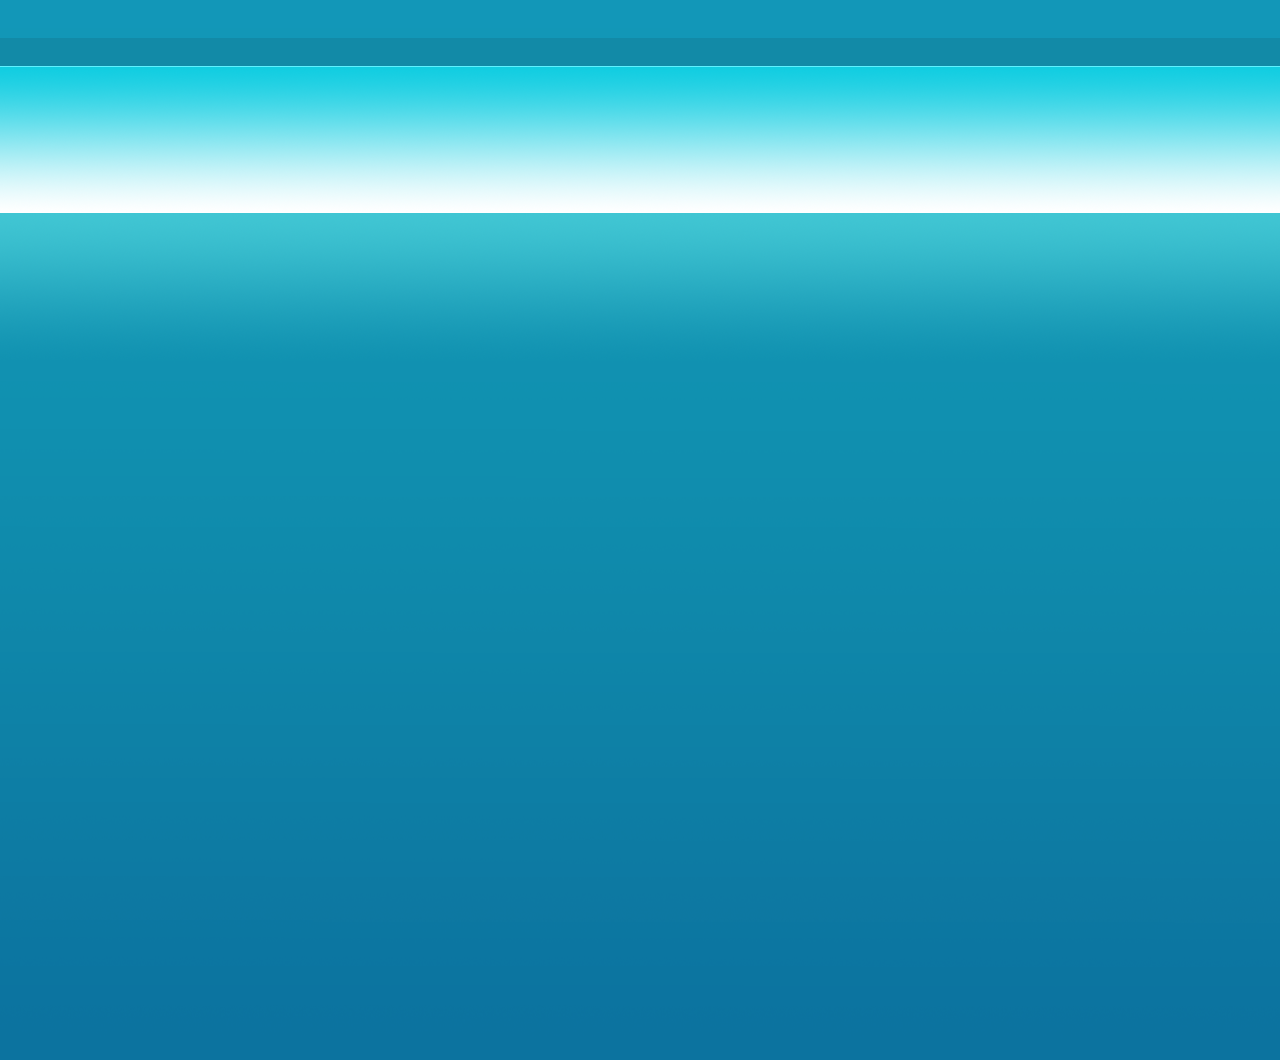
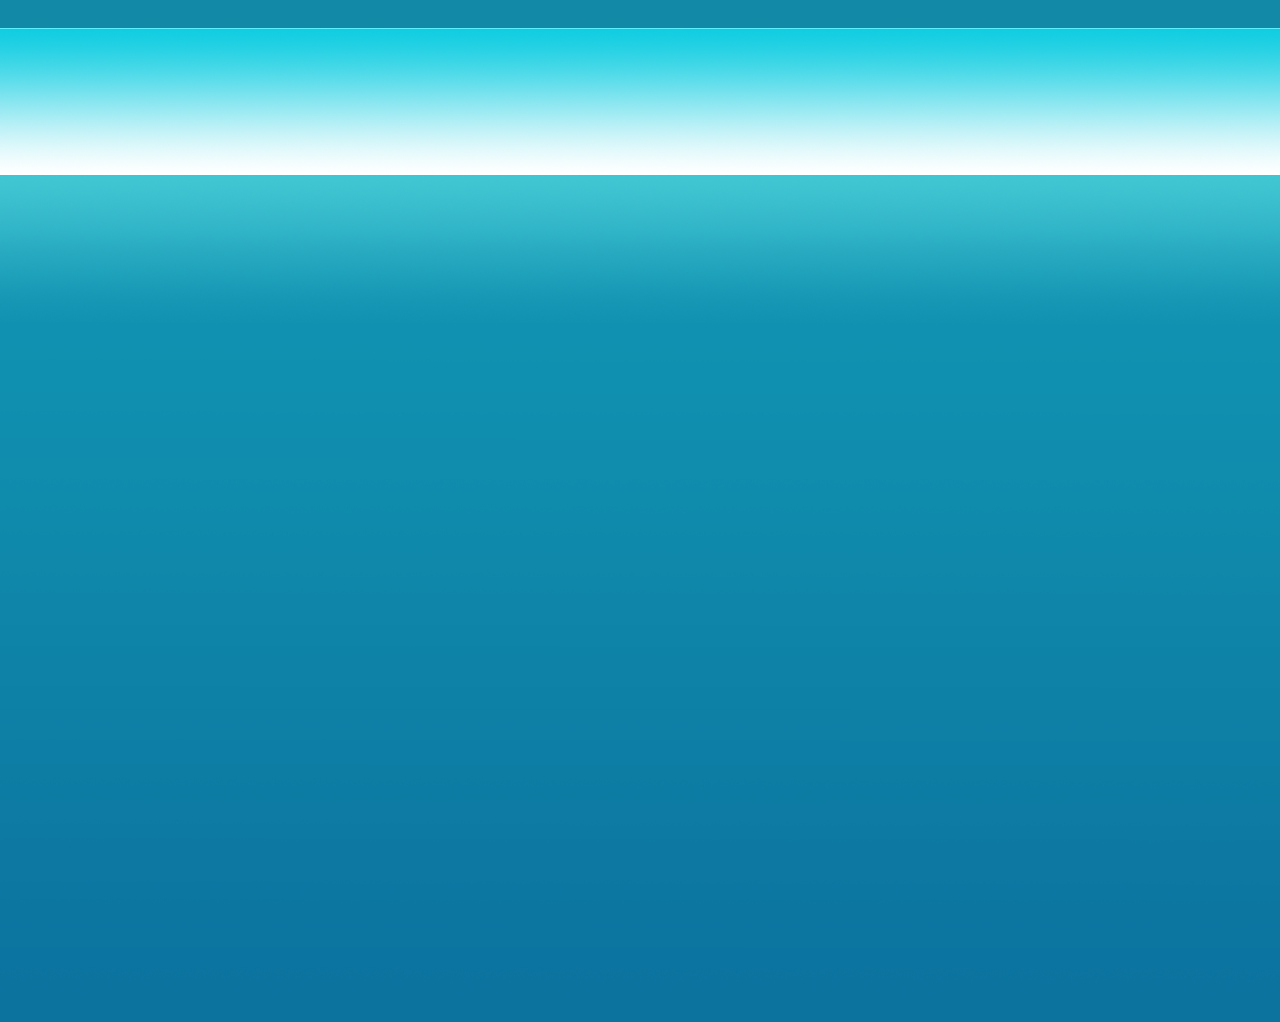
fixes for comments

Changed region(s): [[0.0, 0.0303, 1.0, 0.2123]]

diff --git a/GoIT/markup/lesson4/index.html b/GoIT/markup/lesson4/index.html
@@ -55,7 +55,7 @@
 					<li>
 						<a href="#">Главная</a>
 					</li>
-					<li>
+					<li class="movement">
 						<a class="dropdown" href="#">Путешествия
 						<div class="triangle"></div>
 						</a>
@@ -67,7 +67,7 @@
 							<li><a href="#">Путешествия 5</a></li>
 						</ul>
 					</li>
-					<li>
+					<li class="movement">
 						<a class="dropdown" href="#">Услуги
 						<div class="triangle"></div>
 						</a>
@@ -79,7 +79,7 @@
 							<li><a href="#">Услуги 5</a></li>
 						</ul>
 					</li>
-					<li>
+					<li class="movement">
 						<a class="dropdown"  href="#">Партнерам
 						<div class="triangle"></div>
 						</a>

diff --git a/GoIT/markup/lesson4/css/style.css b/GoIT/markup/lesson4/css/style.css
@@ -16,12 +16,11 @@
 
 
 body {
-	background-image:url(../images/background.png);
+	background-image: url(../images/background.png);
 }
 .wrapper {
 	margin: 0 auto;
 	width: 1000px;
-	margin-top: 38px;
 	overflow: hidden;
 	border: 1px solid black;
 
@@ -247,11 +246,9 @@ body {
 	background: url(../images/triangle-right.png);
 	float: right;
 }
-
-.dropdown:hover .triangle {
+.movement:hover .triangle {
 	background: url(../images/triangle-down.png) no-repeat;
 }
-
 
 
 
